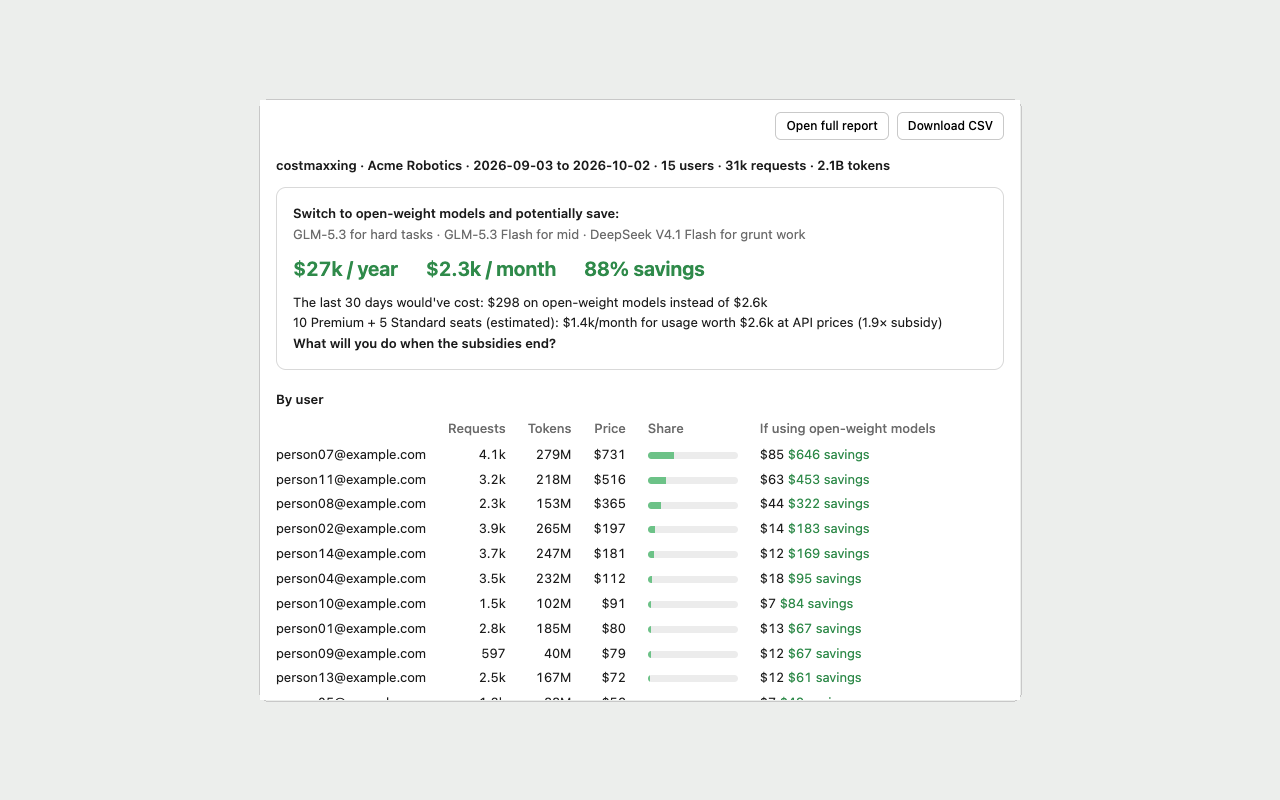
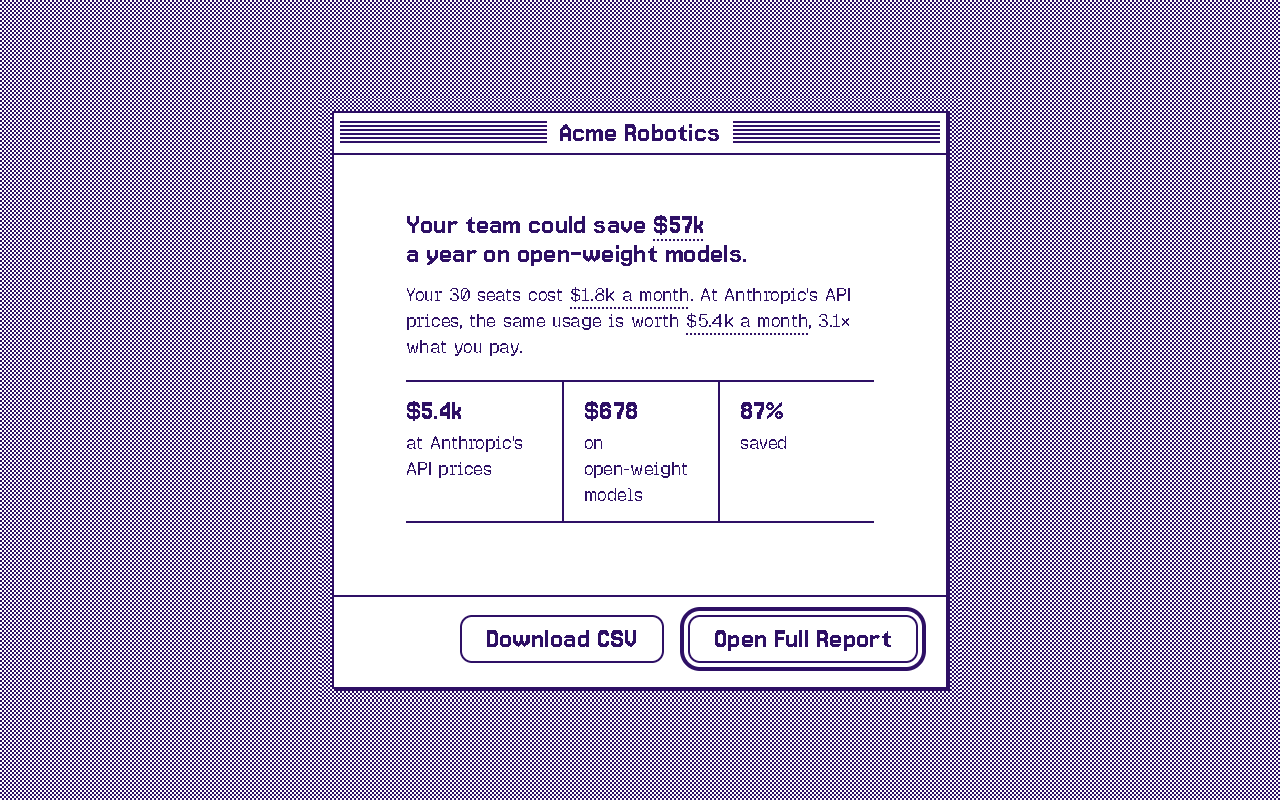
chore(extension): 1.1.0 with new store screenshots
DESIGN.md records the report memo, sheet, and progress dialog. STORE.md lists the steps to upload 1.1.0 and swap the screenshots.

diff --git a/DESIGN.md b/DESIGN.md
@@ -65,6 +65,8 @@ The first screen opens only what matters most: the savings question with its ins
 - Public-domain photography converted to two colors with Atkinson dithering
 - Three type sizes for the whole page
 
+The landing page and the extension's report share one world. `world/` holds the fonts, the pixel icons, and `world.css` (tokens, windows, dialogs, buttons, menus, meters); each surface adds only its own stylesheet.
+
 ## Colors
 
 Two values, no exceptions. Tone comes from pattern, not from a third color.
@@ -139,10 +141,19 @@ Square everywhere except buttons, which carry gently rounded corners (12px), and
 The system dialog carries the page's one question and its one action: the costmaxxing computer icon, the display-size question "How much can your team save by moving from Anthropic to open-weight models?", body copy, and the install button, right-aligned with the default ring. It has no secondary button.
 
 ### App icon
-A compact computer whose screen charts the API price as a zebra-striped bar against two shorter solid bars for the open-weight prices. `site/src/app-icon.ts` draws it on three grids: 16 for the toolbar and favicon, 24 for the extension page and the site's dialog, and 64 (at 2×, 96px of artwork inside 128) for the store. `site/scripts/app-icon.ts` writes every PNG.
+A compact computer whose screen charts the API price as a zebra-striped bar against two shorter solid bars for the open-weight prices. `world/app-icon.ts` draws it on three grids: 16 for the toolbar and favicon, 24 for the extension page and the site's dialog, and 64 (at 2×, 96px of artwork inside 128) for the store. `site/scripts/app-icon.ts` writes every PNG.
 
 ### Get Info
-Any figure in the Team Bill opens an Info window beside it that states the exact amount, its source, and its math. Escape or the close box sends it back into the figure.
+Any figure in the Team Bill or the report opens an Info window beside it that states the exact amount, its source, and its math. Escape or the close box sends it back into the figure.
+
+### Report memo (extension)
+The report tab is one document window on the checker desktop, titled with the org name and period, with a word-processor ruler under the title bar. It reads as a memo: the yearly savings as a display-size sentence, the seat subsidy as a sentence, three figures in a ruled row, then People, Products and models, Providers, and Forecast and method. Each section opens with a one-sentence finding and sits below a 4px dithered page-break rule. It closes on "What will you do when the subsidies end?" with Download CSV as the default button. The toolbar popup shows the same opening paragraph and figures, with Open Full Report as the default button.
+
+### Sheet
+Report tables: display-face headers over a 2px rule, dotted 2px rules between rows, numbers right-aligned in tabular figures. Bars are meters; a person's usage bar is solid up to their seat price and zebra past it. Bars drop below 860px.
+
+### Progress dialog
+Every non-report state is a system alert. Loading names each real step of the fetch above a dithered progress bar that advances in four steps, and the cursor becomes a wristwatch. Signed out, not an Owner, and failed requests use the caution icon, name the problem, and offer the recovery as the default button.
 
 ## Do's and Don'ts
 

diff --git a/extension/STORE.md b/extension/STORE.md
@@ -80,9 +80,14 @@ Everything the Chrome Web Store developer dashboard asks for, in the order it as
 
 Click **Submit for Review**. Review time varies. After approval you have 30 days to publish if you chose deferred publishing.
 
-## Ship 1.0.1 with the new icon
+## Ship 1.1.0
 
-Version 1.0.0 went to review with the old green icon. Version 1.0.1 adds the purple pixel computer icon at every size. After 1.0.0 is approved, open the item, choose **Package**, upload the new `extension/costmaxxing-extension.zip`, replace the small promo tile with the current `extension/store/promo-small-440x280.png`, and submit again. The store icon comes from the zip.
+Version 1.1.0 adds the purple pixel icon at every size and redraws the report and popup in the landing page's 1-bit style: a loading dialog with each real step, a one-page memo with per-person seat usage and the open-weight model that replaces each Claude model, and system dialogs for signed-out, non-Owner, and failed states. To ship it:
+
+1. Run `npm run build -w extension`.
+2. Open the item in the developer dashboard, choose **Package**, and upload the new `extension/costmaxxing-extension.zip`.
+3. On the **Store listing** tab, replace both screenshots with `extension/store/store-popup.png` and `extension/store/store-report.png`, and the small promo tile with `extension/store/promo-small-440x280.png`.
+4. Click **Submit for Review**. The store icon comes from the zip.
 
 ## After approval
 
